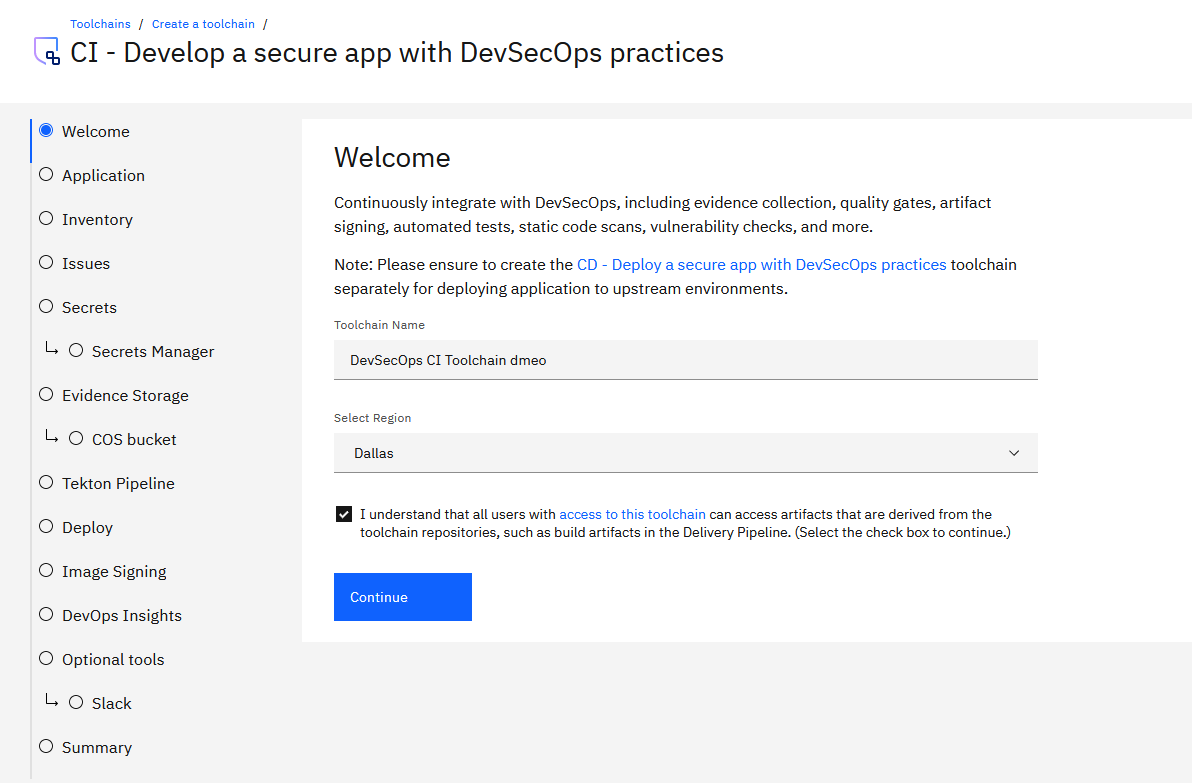
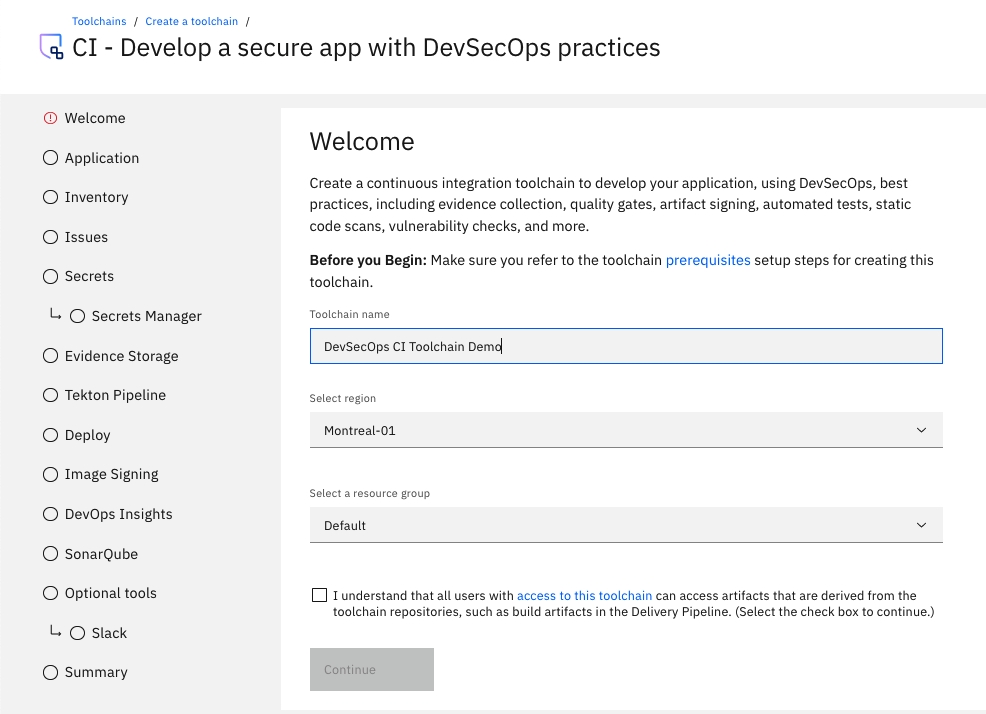
SonarQube

diff --git a/devsecops-tutorial.md b/devsecops-tutorial.md
@@ -2,7 +2,7 @@
 
 copyright:
    years: 2021
-lastupdated: "2021-11-15"
+lastupdated: "2021-12-13"
 
 keywords: tekton, pipeline, toolchain, CD, CI, automate, automation, continuous delivery, continuous integration, devsecops tutorial, devsecops, DevOps, shift-left, shift left, secure DevOps, IBM Cloud
 
@@ -25,6 +25,7 @@ completion-time: 2h
 {:important: .important}
 {:download: .download}
 {:external: target="_blank" .external}
+{:term: .term}
 {:step: data-tutorial-type='step'}
 
 # Deploy a secure app with DevSecOps best practices
@@ -39,7 +40,7 @@ Use this tutorial to learn how to master DevSecOps best practices by using a com
 ## Overview
 {: #devsecops-tutorial-overview}
 
-[DevSecOps](https://www.ibm.com/cloud/learn/devsecops){: external} integrates a set of security and compliance controls into the [DevOps](https://www.ibm.com/cloud/learn/devops-a-complete-guide){: external} processes. This integration allows organizations to deliver rapidly and often, while maintaining a strong security posture and continuous state of audit-readiness. Additionally, DevSecOps makes application and infrastructure security a shared responsibility of development, security, and IT operations teams, rather than the sole responsibility of a security silo.
+[DevSecOps](#x9892260){: term} integrates a set of security and compliance controls into the [DevOps](https://www.ibm.com/cloud/learn/devops-a-complete-guide){: external} processes. This integration allows organizations to deliver rapidly and often, while maintaining a strong security posture and continuous state of audit-readiness. Additionally, DevSecOps makes application and infrastructure security a shared responsibility of development, security, and IT operations teams, rather than the sole responsibility of a security silo.
 
 This tutorial provides information about the design, configuration, and uses of the CI/CD reference implementation by using {{site.data.keyword.cloud_notm}} Continuous Delivery with Tekton Pipelines. This tutorial steps you through the creation of Continuous Integration (CI) and Continuous Delivery (CD) toolchains by using toolchain templates. As illustrated in the following diagram, the CI and CD templates help you create two toolchains (CI and CD) along with their respective pipelines to build and deploy a sample app's code to a {{site.data.keyword.containerlong}} cluster.
 
@@ -277,6 +278,15 @@ Ensure that the key follows the appropriate encoding as required by the chosen t
 
 [IBM Cloud DevOps Insights](/docs/ContinuousDelivery?topic=ContinuousDelivery-di_working) is included in the created toolchain and after each compliance check evidence is published into it. You do not need to provide any configuration steps for DevOps Insights, the CI pipeline will automatically use the insights instance included in the toolchain.  DevOps Insights aggregates code, test, build, and deployment data to provide visibility into the velocity and quality of all your teams and releases.
 
+### SonarQube
+{: #devsecops-ci-tool-integration-sonarqube}
+
+Configure SonarQube as the static code analysis tool for the toolchain. SonarQube provides an overview of the overall health and quality of your source code and highlights issues that are found in new code. The static code analyzers detect tricky bugs, such as null-pointer dereferences, logic errors, and resource leaks for multiple programming languages.
+
+With **Default Configuration**, the pipeline provisions a new SonarQube instance in the Kubernetes cluster that is configured in the **Deploy** step. This instance is provisioned during the first pipeline run and remains available to all the subsequent pipeline runs.
+
+If you want the toolchain to use an existing SonarQube Instance that you have provisioned on another host, use the **Custom Configuration** option.
+
 ### Optional tools
 {: #devsecops-ci-tool-integration-optional-tools}
 
@@ -380,7 +390,7 @@ To evaluate if you have any failures in your pipeline run, you need to check the
 {: note}
 
 ### Viewing the running application
-{: #devsecops-ci-toolchain-ci-running-app}
+{: #devsecops-ci-toolchain-view-app}
 
 After a successful CI pipeline run, the sample application is deployed on your Kubernetes cluster, and is running in the dev namespace.
 
@@ -389,7 +399,7 @@ The app url can be found at the end of the log of the `run stage` step of `deplo
 ![DevSecOps CI sample app](images/devsecops-ci-explore-app-dev-namespace.png){: caption="DevSecOps CI sample app" caption-side="bottom"}
 
 ### Pipeline configuration
-{: #devsecops-ci-tool-integration-pipeline-config}
+{: #devsecops-ci-toolchain-pipeline-config}
 
 The repository contains custom scripts to carry out pipeline tasks in the CI Pipelines (.pipeline-config.yaml). Refer to [hello-compliance-deployment](https://us-south.git.cloud.ibm.com/open-toolchain/hello-compliance-deployment) sample repository that contains some default configuration and scripts.
 
@@ -398,6 +408,8 @@ By default, the setup Clone deployment configuration from the sample repository.
 More detailed information on customizing the CI pipelines can be found [here](/docs/devsecops?topic=devsecops-custom-scripts). 
 
 ### Wrapping up
+{: #devsecops-ci-toolchain-done}
+
 Congratulations!
 
 By completing the CI part of this tutorial, you:
@@ -512,7 +524,7 @@ The default behavior of the toolchain is to Use existing issues repository to li
 
 **Repository URL**: URL of the Issues Repository configured in your CI Toolchain as captured in the previous step.
 
-![DevSecOps issues repository](images/devsecops-cd-issues-repo.png){: DevSecOps issues repository" caption-side="bottom"}
+![DevSecOps issues repository](images/devsecops-cd-issues-repo.png){: caption DevSecOps issues repository" caption-side="bottom"}
 
 ### Pipeline Configuration
 {: #devsecops-cd-tool-integration-pipeline-config}
@@ -641,6 +653,7 @@ In case you have an existing Change Request repository from an existing CD Toolc
 ![Change Request Management](images/devsecops-cd-change-request-mgmt.png){: caption="Change Request Management" caption-side="bottom"}
 
 ### Link to existing DevOps Insights Toolchain
+{: #devsecops-cd-tool-integration-insights}
 
 We already created an instance of DevOps Insights during the CI toolchain creation. The same needs to be referred to in the CD toolchain. After each compliance check evidence is published into it. The toolchain publishes the deployment records to DevOps insights. You can link DevOps Insights integration from CI toolchain by providing the Integration ID to consolidate all the deployment data in single DevOps Insight Instance.
 
@@ -659,6 +672,8 @@ You can also set a target environment for the DOI interactions. This parameter i
 {: #devsecops-cd-tool-integration-optional-tools}
 
 #### Slack
+{: #devsecops-cd-tool-integration-slack}
+
 If you want to receive notifications about your PR/CI Pipeline events, you can configure the [Slack Tool](/docs/ContinuousDelivery?topic=ContinuousDelivery-slack) during the setup from the toolchain template, or you can add the Slack Tool later.
 
 In order for a Slack channel to receive notifications from your tools, you need a Slack webhook URL. To get a webhook URL, see the Incoming Webhooks section of the [Slack API website](https://api.slack.com/messaging/webhooks){: external}.
@@ -670,6 +685,8 @@ After you create your toolchain, you can toggle sending notifications with the s
 ![DevSecOps Slack toggle](images/devsecops-slack-toggle.png){: caption="DevSecOps Slack toggle" caption-side="bottom"}
 
 #### Security and Compliance
+{: #devsecops-cd-tool-integration-scc}
+
 To integrate the toolchain with the Security and Compliance Service, you need to provide a project name and the evidence locker repository name for the Security and Compliance data collector.
 
 ![DevSecOps Security and Compliance](images/devsecops-cd-scc-disabled.png){: caption="DevSecOps Security and Compliance" caption-side="bottom"}
